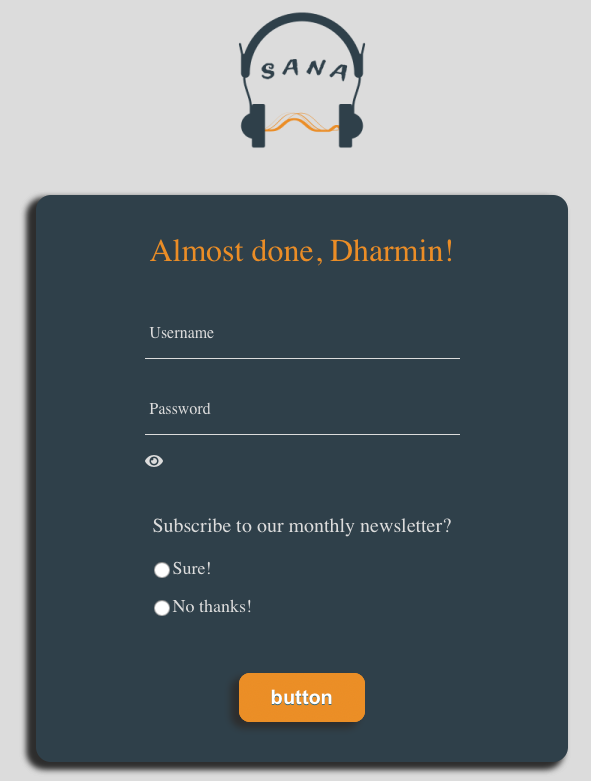
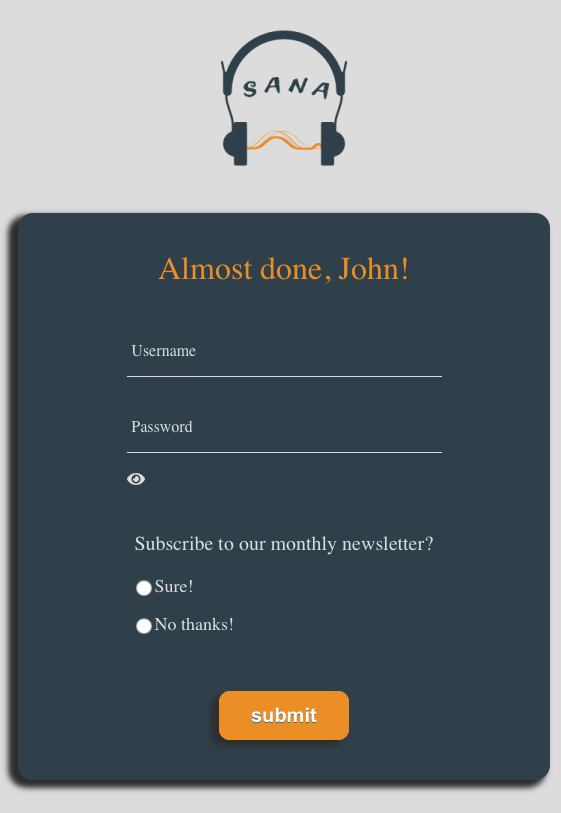
Edited button name and new RE

diff --git a/src/context/formContext.js b/src/context/formContext.js
@@ -10,7 +10,7 @@ export const FormProvider = (props) => {
   const [pword, setPword] = useState("");
   const [subscribed, setSubscribe] = useState(null);
   const [stage,setStage] = useState('initial')
-  const [loader,setLoder] = useState('button')
+  const [loader,setLoder] = useState('submit')
 
   return (
     <FormContext.Provider
